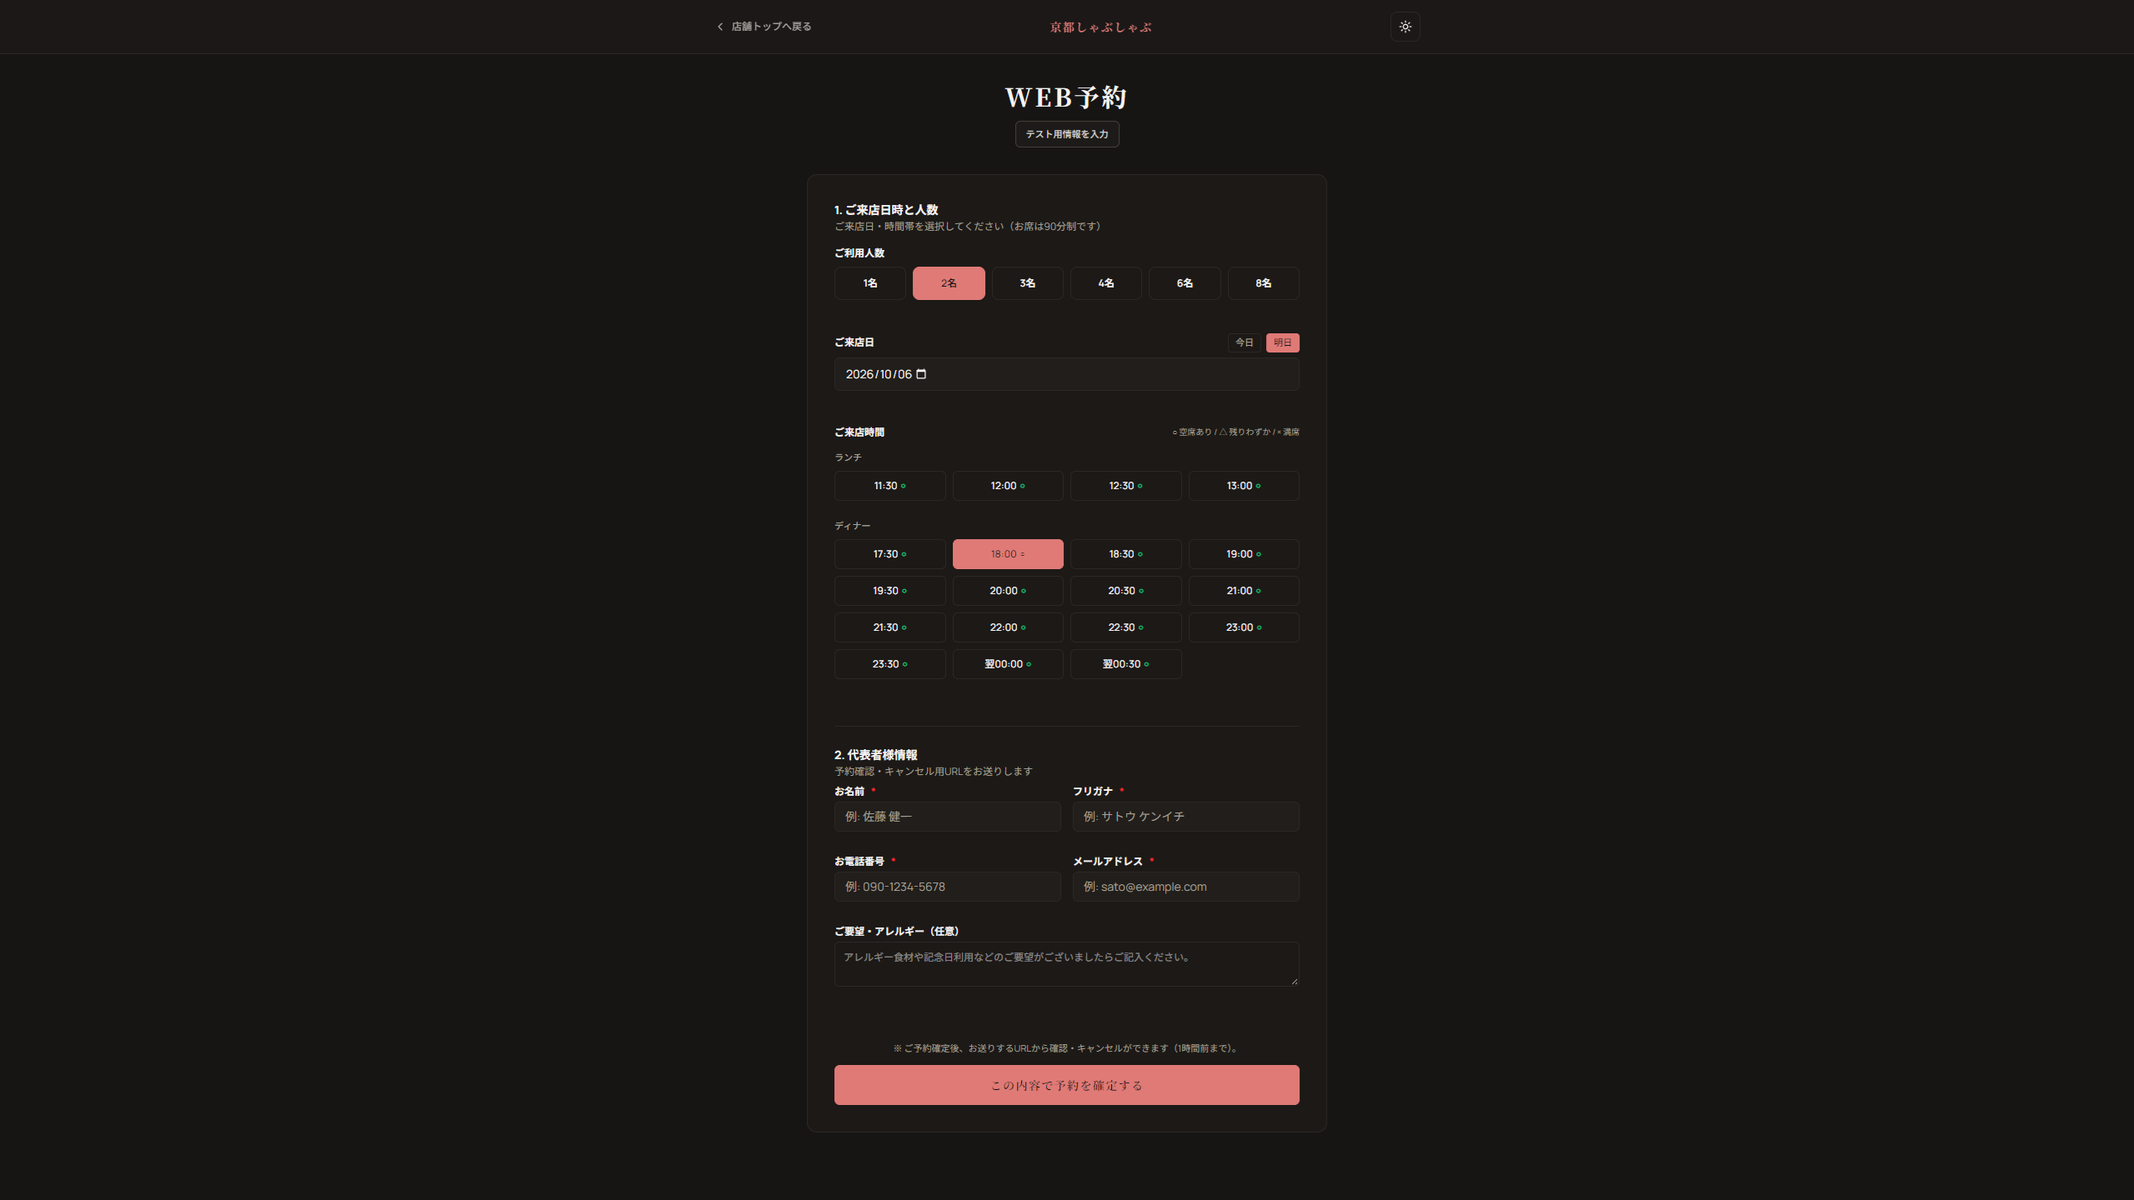
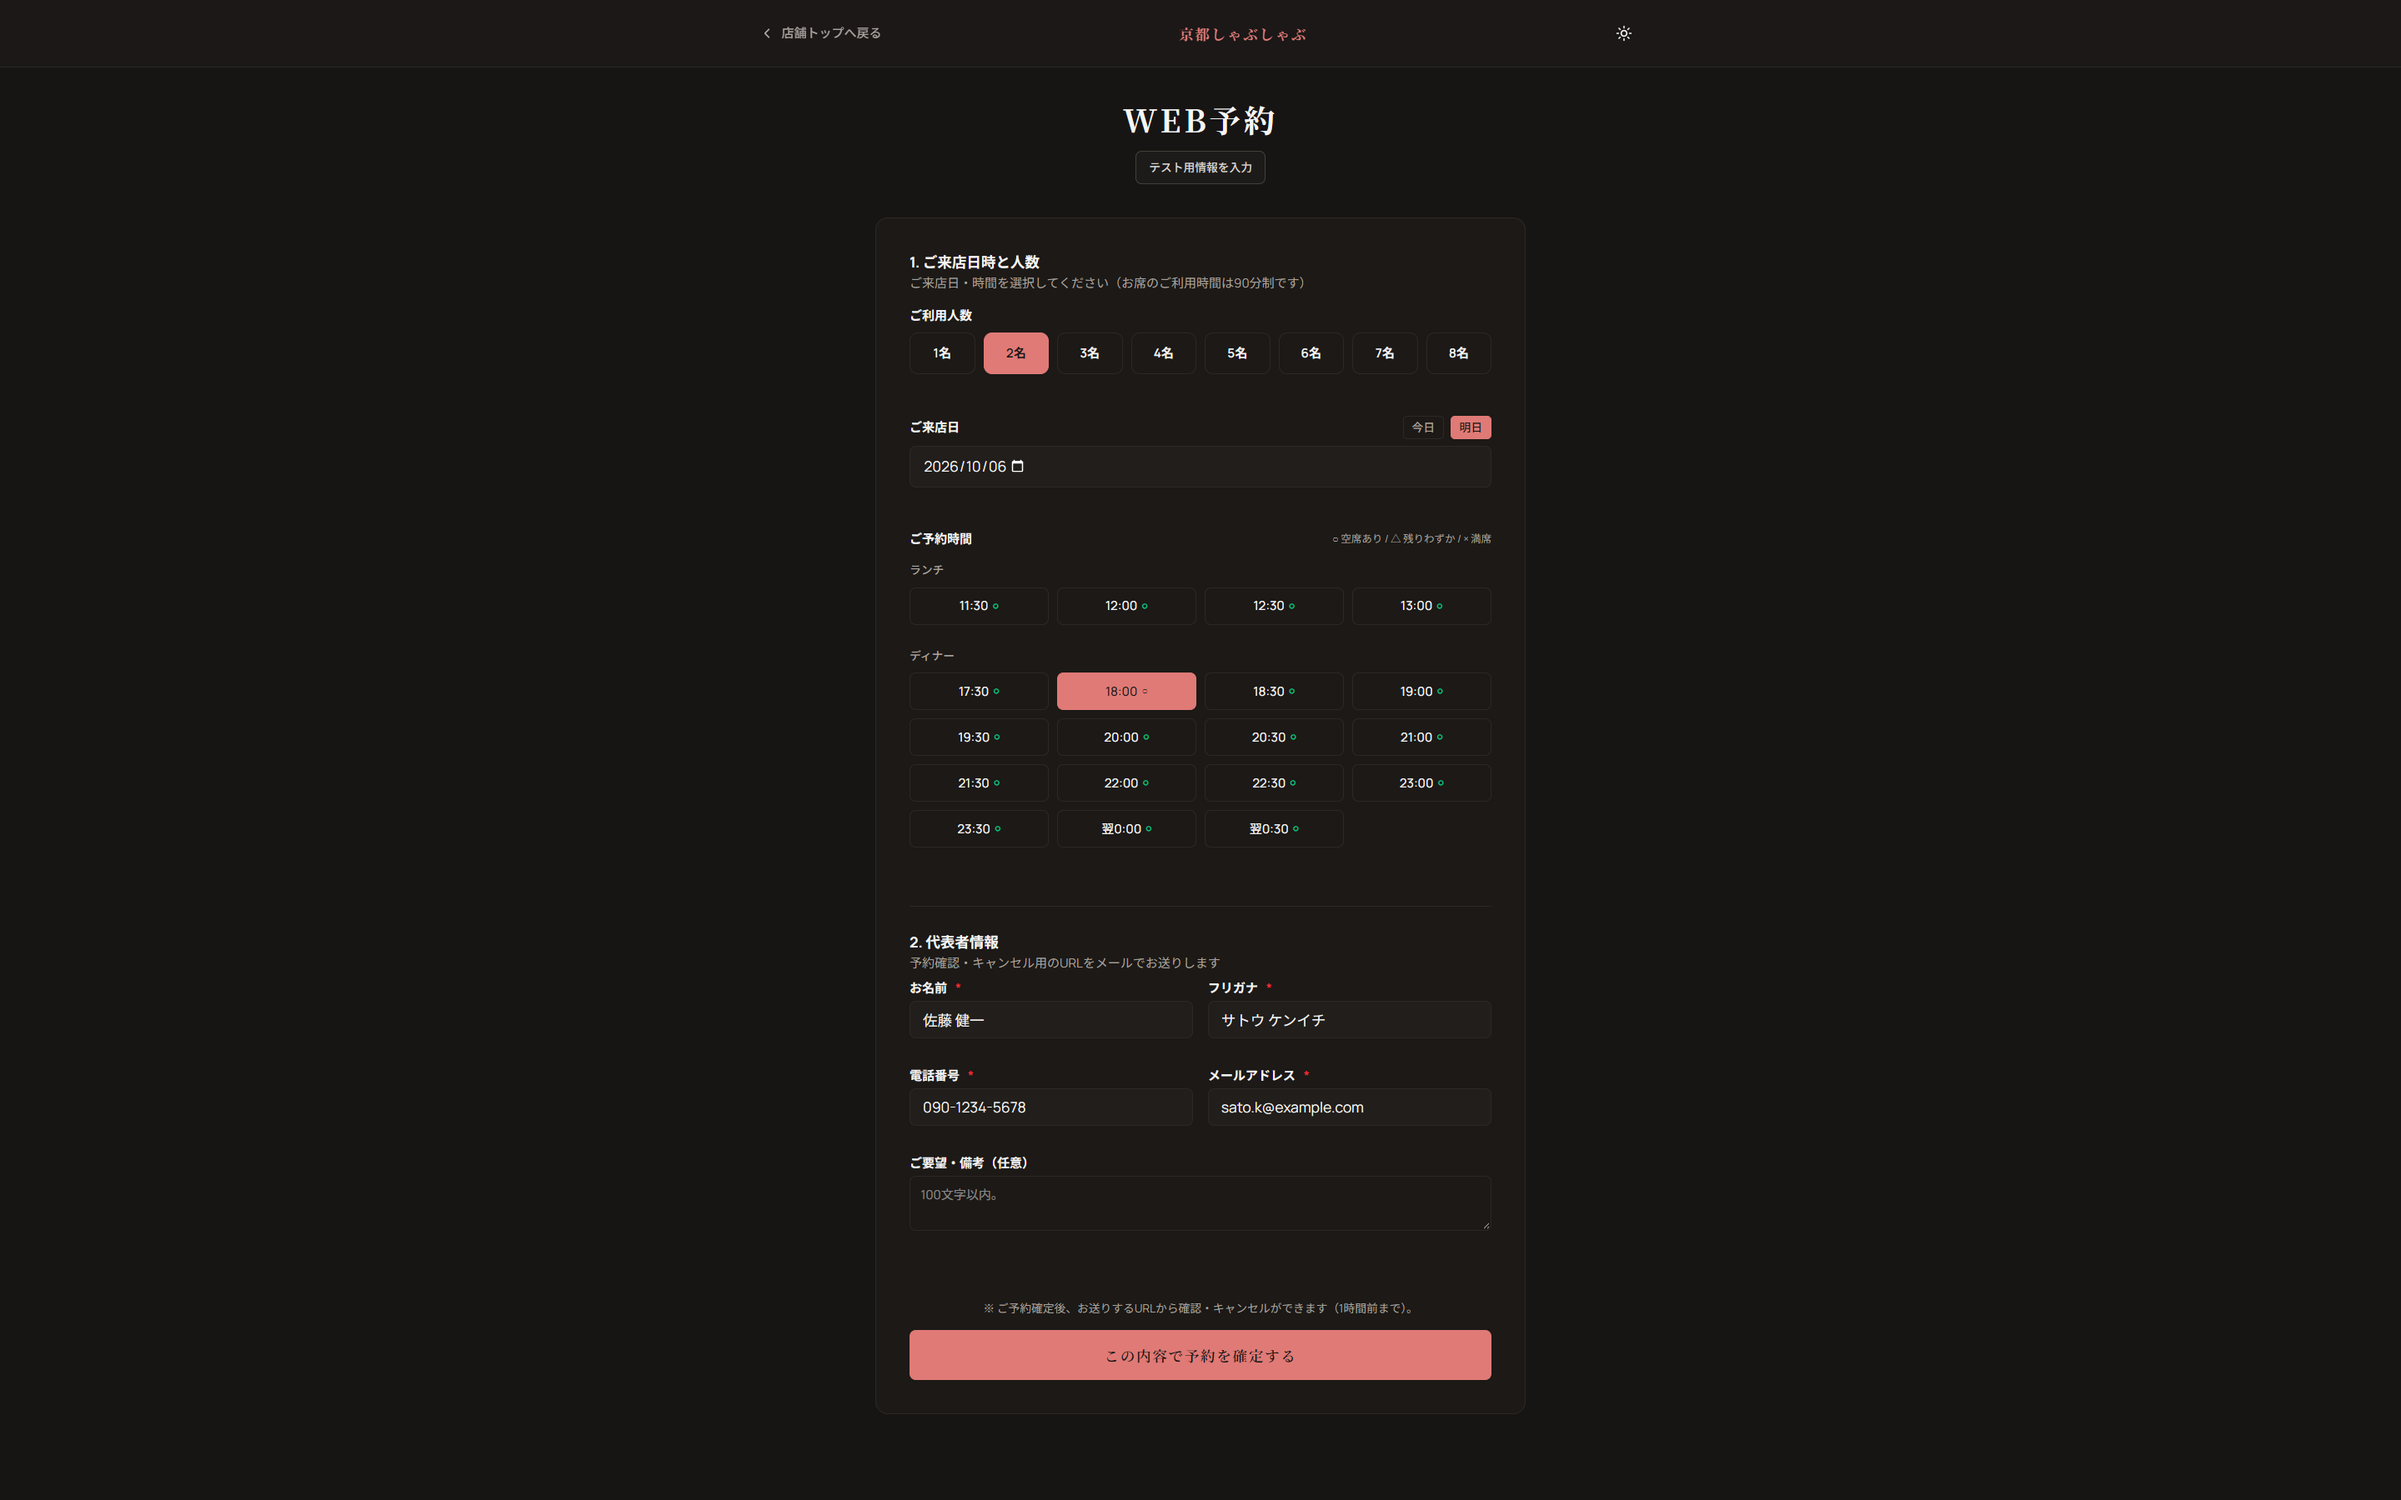
feat: add github links, update readme and metadate, fix db reset

diff --git a/components/dashboard/dashboard-shell.tsx b/components/dashboard/dashboard-shell.tsx
@@ -36,6 +36,18 @@ import {
 import { restaurantConfig } from "@/config/restaurant";
 import { authClient } from "@/lib/auth/auth-client";
 
+function GithubIcon({ className }: { className?: string }) {
+  return (
+    <svg className={className} viewBox="0 0 24 24" fill="currentColor" aria-hidden="true">
+      <path
+        fillRule="evenodd"
+        clipRule="evenodd"
+        d="M12 2C6.477 2 2 6.484 2 12.017c0 4.425 2.865 8.18 6.839 9.504.5.092.682-.217.682-.483 0-.237-.008-.868-.013-1.703-2.782.605-3.369-1.343-3.369-1.343-.454-1.158-1.11-1.466-1.11-1.466-.908-.62.069-.608.069-.608 1.003.07 1.53 1.032 1.53 1.032.892 1.53 2.341 1.088 2.91.832.092-.647.35-1.088.636-1.338-2.22-.253-4.555-1.113-4.555-4.951 0-1.093.39-1.988 1.029-2.688-.103-.253-.446-1.272.098-2.65 0 0 .84-.27 2.75 1.026A9.564 9.564 0 0112 6.844c.85.004 1.705.115 2.504.337 1.909-1.296 2.747-1.027 2.747-1.027.546 1.379.202 2.398.1 2.651.64.7 1.028 1.595 1.028 2.688 0 3.848-2.339 4.695-4.566 4.943.359.309.678.92.678 1.855 0 1.338-.012 2.419-.012 2.747 0 .268.18.58.688.482A10.019 10.019 0 0022 12.017C22 6.484 17.522 2 12 2z"
+      />
+    </svg>
+  );
+}
+
 interface NavGroup {
   title: string;
   items: {
@@ -256,26 +268,51 @@ export function DashboardShell({ children, initialUser }: DashboardShellProps) {
 
         <div className="border-t border-border p-2 space-y-2">
           {!isCollapsed ? (
-            <Link
-              href="/"
-              target="_blank"
-              className="flex items-center justify-between rounded-lg border border-border bg-card px-3 py-1.5 text-xs text-muted-foreground hover:bg-accent hover:text-foreground transition-colors"
-            >
-              <span className="flex items-center gap-2">
-                <Store className="size-3.5" />
-                店舗サイトを確認
-              </span>
-              <ExternalLink className="size-3 text-muted-foreground" />
-            </Link>
+            <>
+              <Link
+                href="/"
+                target="_blank"
+                className="flex items-center justify-between rounded-lg border border-border bg-card px-3 py-1.5 text-xs text-muted-foreground hover:bg-accent hover:text-foreground transition-colors"
+              >
+                <span className="flex items-center gap-2">
+                  <Store className="size-3.5" />
+                  店舗サイトを確認
+                </span>
+                <ExternalLink className="size-3 text-muted-foreground" />
+              </Link>
+              <a
+                href="https://github.com/aaakul/yoyaku-kit"
+                target="_blank"
+                rel="noopener noreferrer"
+                className="flex items-center justify-between rounded-lg border border-border bg-card px-3 py-1.5 text-xs text-muted-foreground hover:bg-accent hover:text-foreground transition-colors"
+              >
+                <span className="flex items-center gap-2">
+                  <GithubIcon className="size-3.5" />
+                  Github
+                </span>
+                <ExternalLink className="size-3 text-muted-foreground" />
+              </a>
+            </>
           ) : (
-            <Link
-              href="/"
-              target="_blank"
-              title="店舗サイトを確認"
-              className="flex items-center justify-center rounded-lg border border-border bg-card p-2 text-muted-foreground hover:bg-accent hover:text-foreground transition-colors"
-            >
-              <Store className="size-4 shrink-0" />
-            </Link>
+            <>
+              <Link
+                href="/"
+                target="_blank"
+                title="店舗サイトを確認"
+                className="flex items-center justify-center rounded-lg border border-border bg-card p-2 text-muted-foreground hover:bg-accent hover:text-foreground transition-colors"
+              >
+                <Store className="size-4 shrink-0" />
+              </Link>
+              <a
+                href="https://github.com/aaakul/yoyaku-kit"
+                target="_blank"
+                rel="noopener noreferrer"
+                title="Github"
+                className="flex items-center justify-center rounded-lg border border-border bg-card p-2 text-muted-foreground hover:bg-accent hover:text-foreground transition-colors"
+              >
+                <GithubIcon className="size-4 shrink-0" />
+              </a>
+            </>
           )}
 
           {!isCollapsed ? (

diff --git a/components/restaurant/footer.tsx b/components/restaurant/footer.tsx
@@ -87,6 +87,18 @@ export function Footer() {
             </p>
           </div>
         </div>
+
+        <div className="mt-8 border-t border-stone-850 pt-6 text-center text-xs text-stone-500">
+          Made with{" "}
+          <a
+            href="https://github.com/aaakul/yoyaku-kit"
+            target="_blank"
+            rel="noopener noreferrer"
+            className="font-medium text-stone-400 underline decoration-stone-600 underline-offset-4 transition hover:text-stone-200 hover:decoration-stone-400"
+          >
+            yoyaku-kit
+          </a>
+        </div>
       </div>
     </footer>
   );

diff --git a/app/layout.tsx b/app/layout.tsx
@@ -9,7 +9,7 @@ export const metadata: Metadata = {
     default: `${restaurantConfig.name} | ${restaurantConfig.tagline}`,
     template: `%s | ${restaurantConfig.name}`,
   },
-  description: restaurantConfig.summary,
+  description: `${restaurantConfig.summary} |r Yoyaku Kitは、小規模飲食店向けの予約・テーブル管理システムです。An open-source restaurant reservation and table management system built with Next.js 16 and PostgreSQL for small restaurants in Japan.`,
   robots: {
     index: true,
     follow: true,

diff --git a/lib/db/reset.ts b/lib/db/reset.ts
@@ -22,7 +22,7 @@ async function runReset() {
       DROP SCHEMA IF EXISTS drizzle CASCADE;
       DROP SCHEMA IF EXISTS public CASCADE;
       CREATE SCHEMA public;
-      GRANT ALL ON SCHEMA public TO postgres;
+      GRANT ALL ON SCHEMA public TO CURRENT_USER;
       GRANT ALL ON SCHEMA public TO public;
     `);
     console.log("Public schema dropped and recreated successfully.");

diff --git a/README.md b/README.md
@@ -4,11 +4,14 @@ A lightweight Japanese restaurant reservation and table management system built 
 
 Designed specifically for small, single-location restaurants in Japan, it provides localized usage experience.
 
+[Live demo](https://yoyaku-kit-demo.vercel.app)
+
 ## Features
 
 ### Customer
 
 ![booking](./docs/images/booking.png)
+![reservation](./docs/images/reservation.png)
 
 - Book a table without creating an account
 - Receive an independent, human-readable 6-character reservation number
